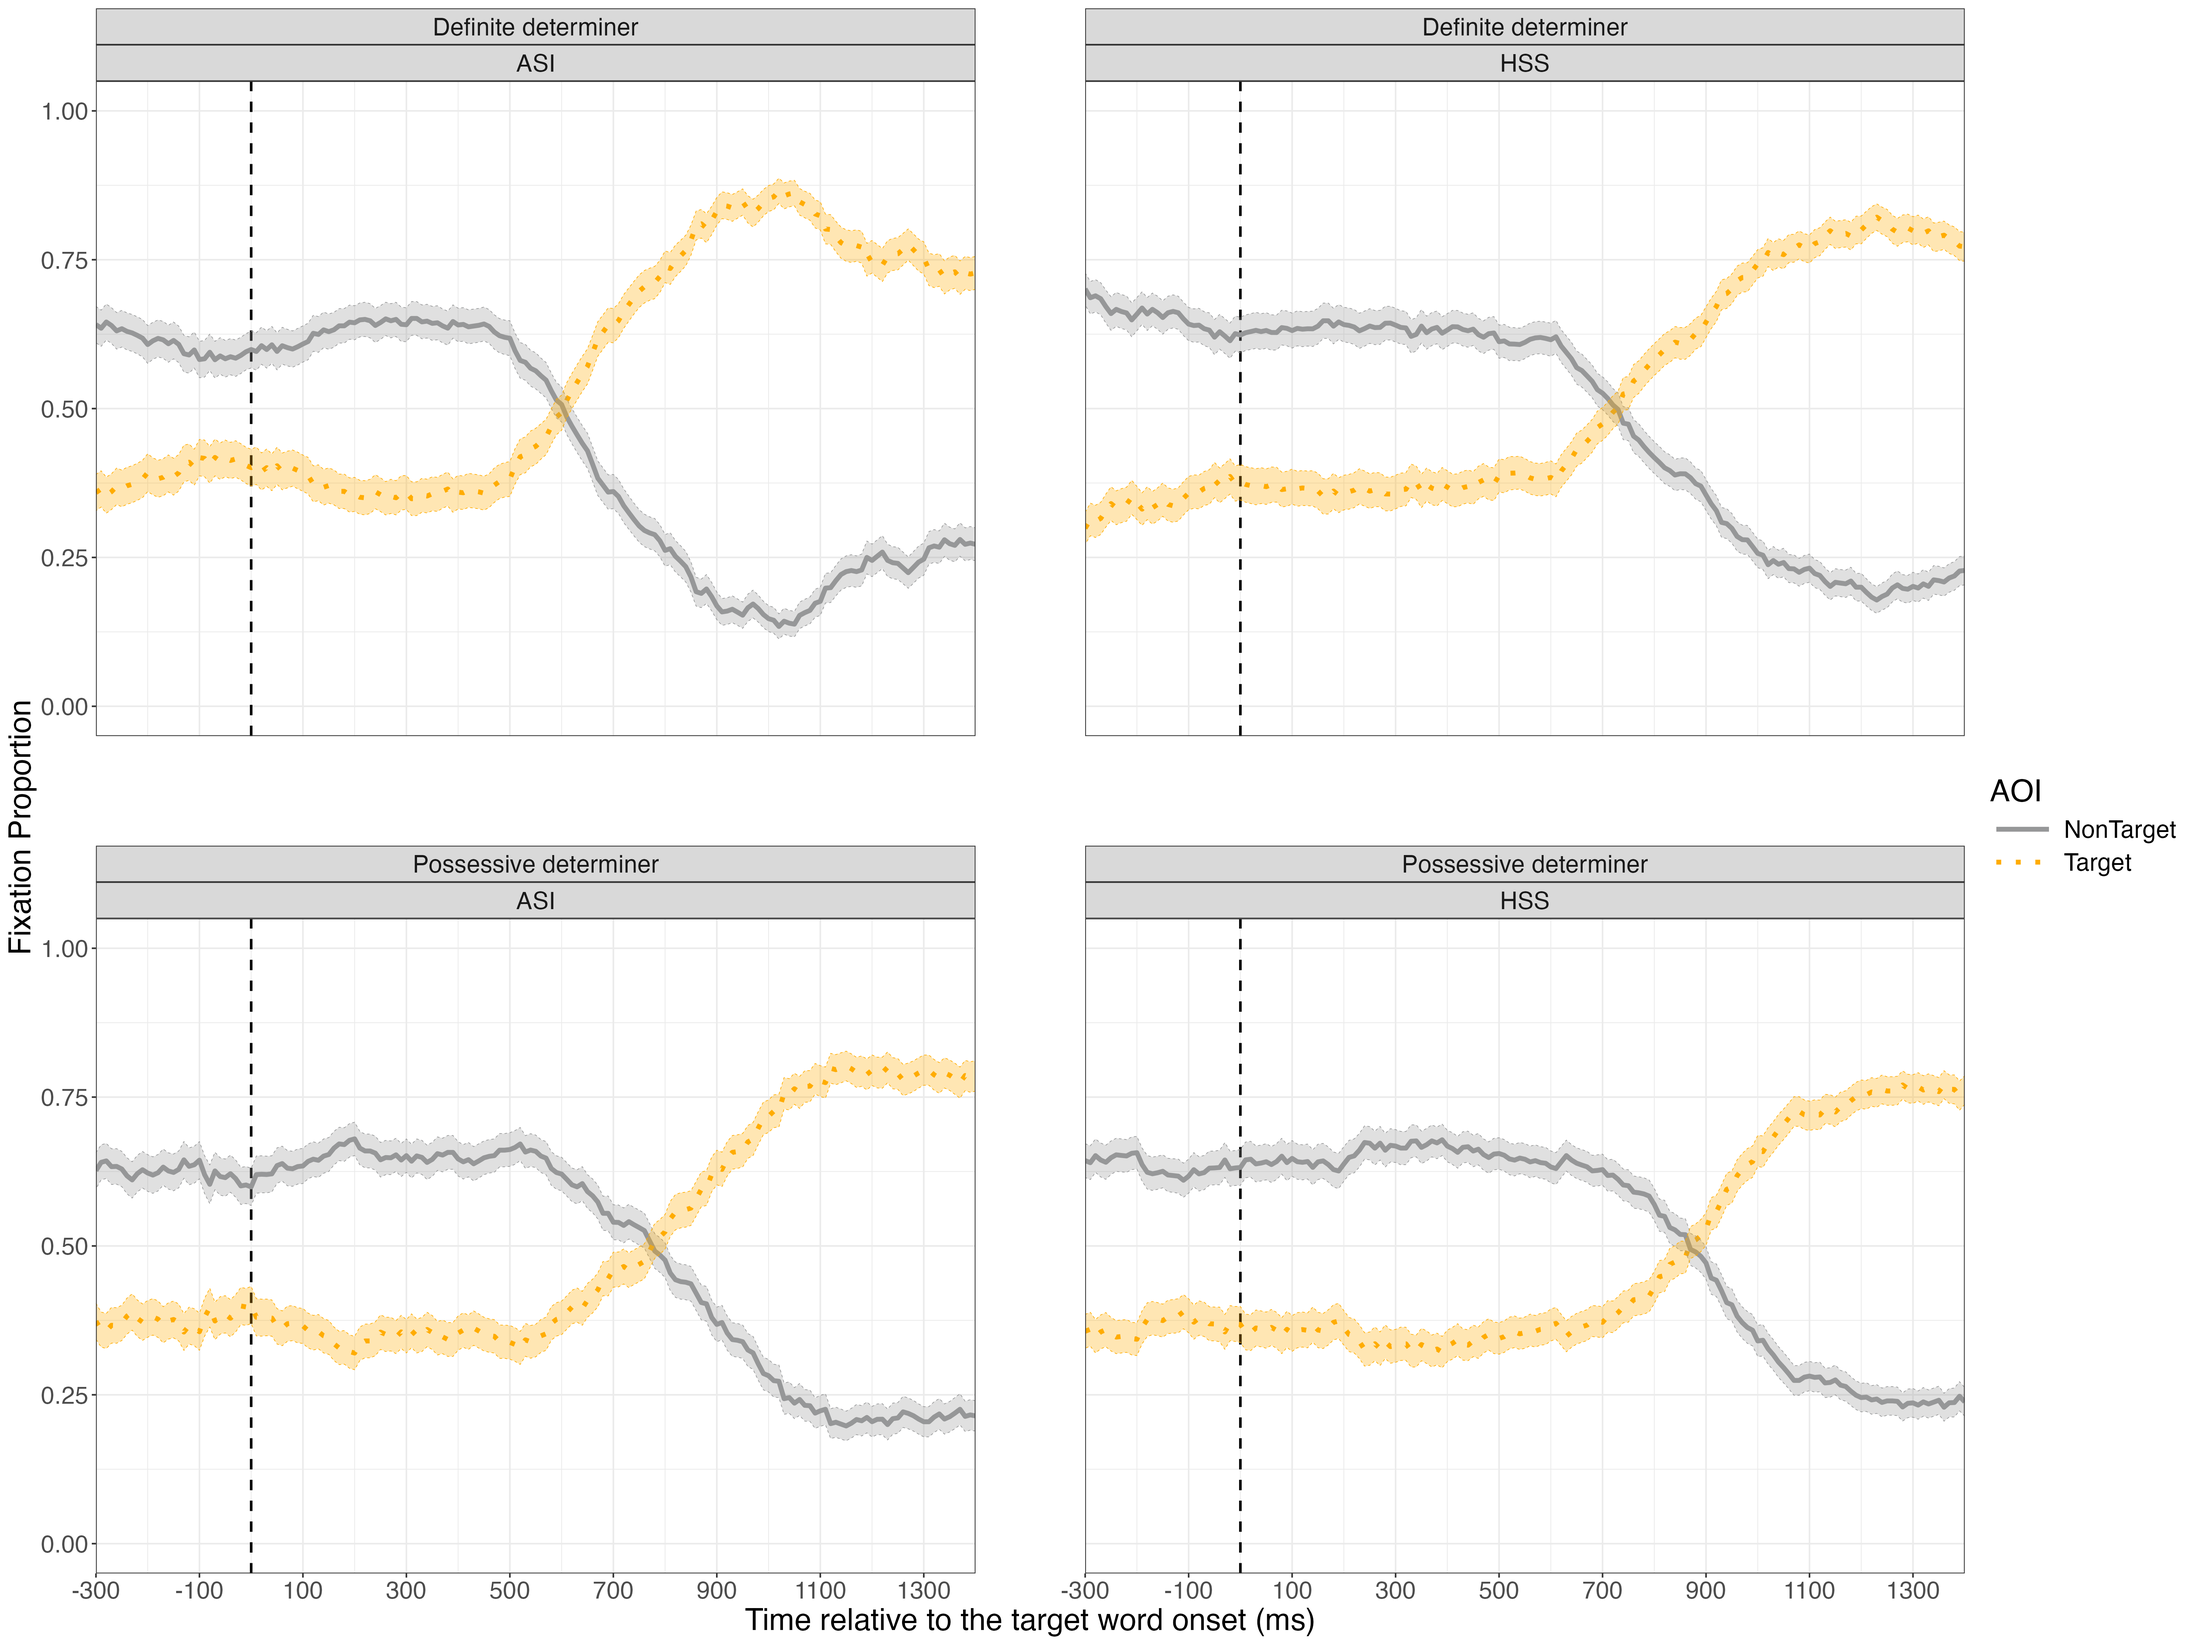
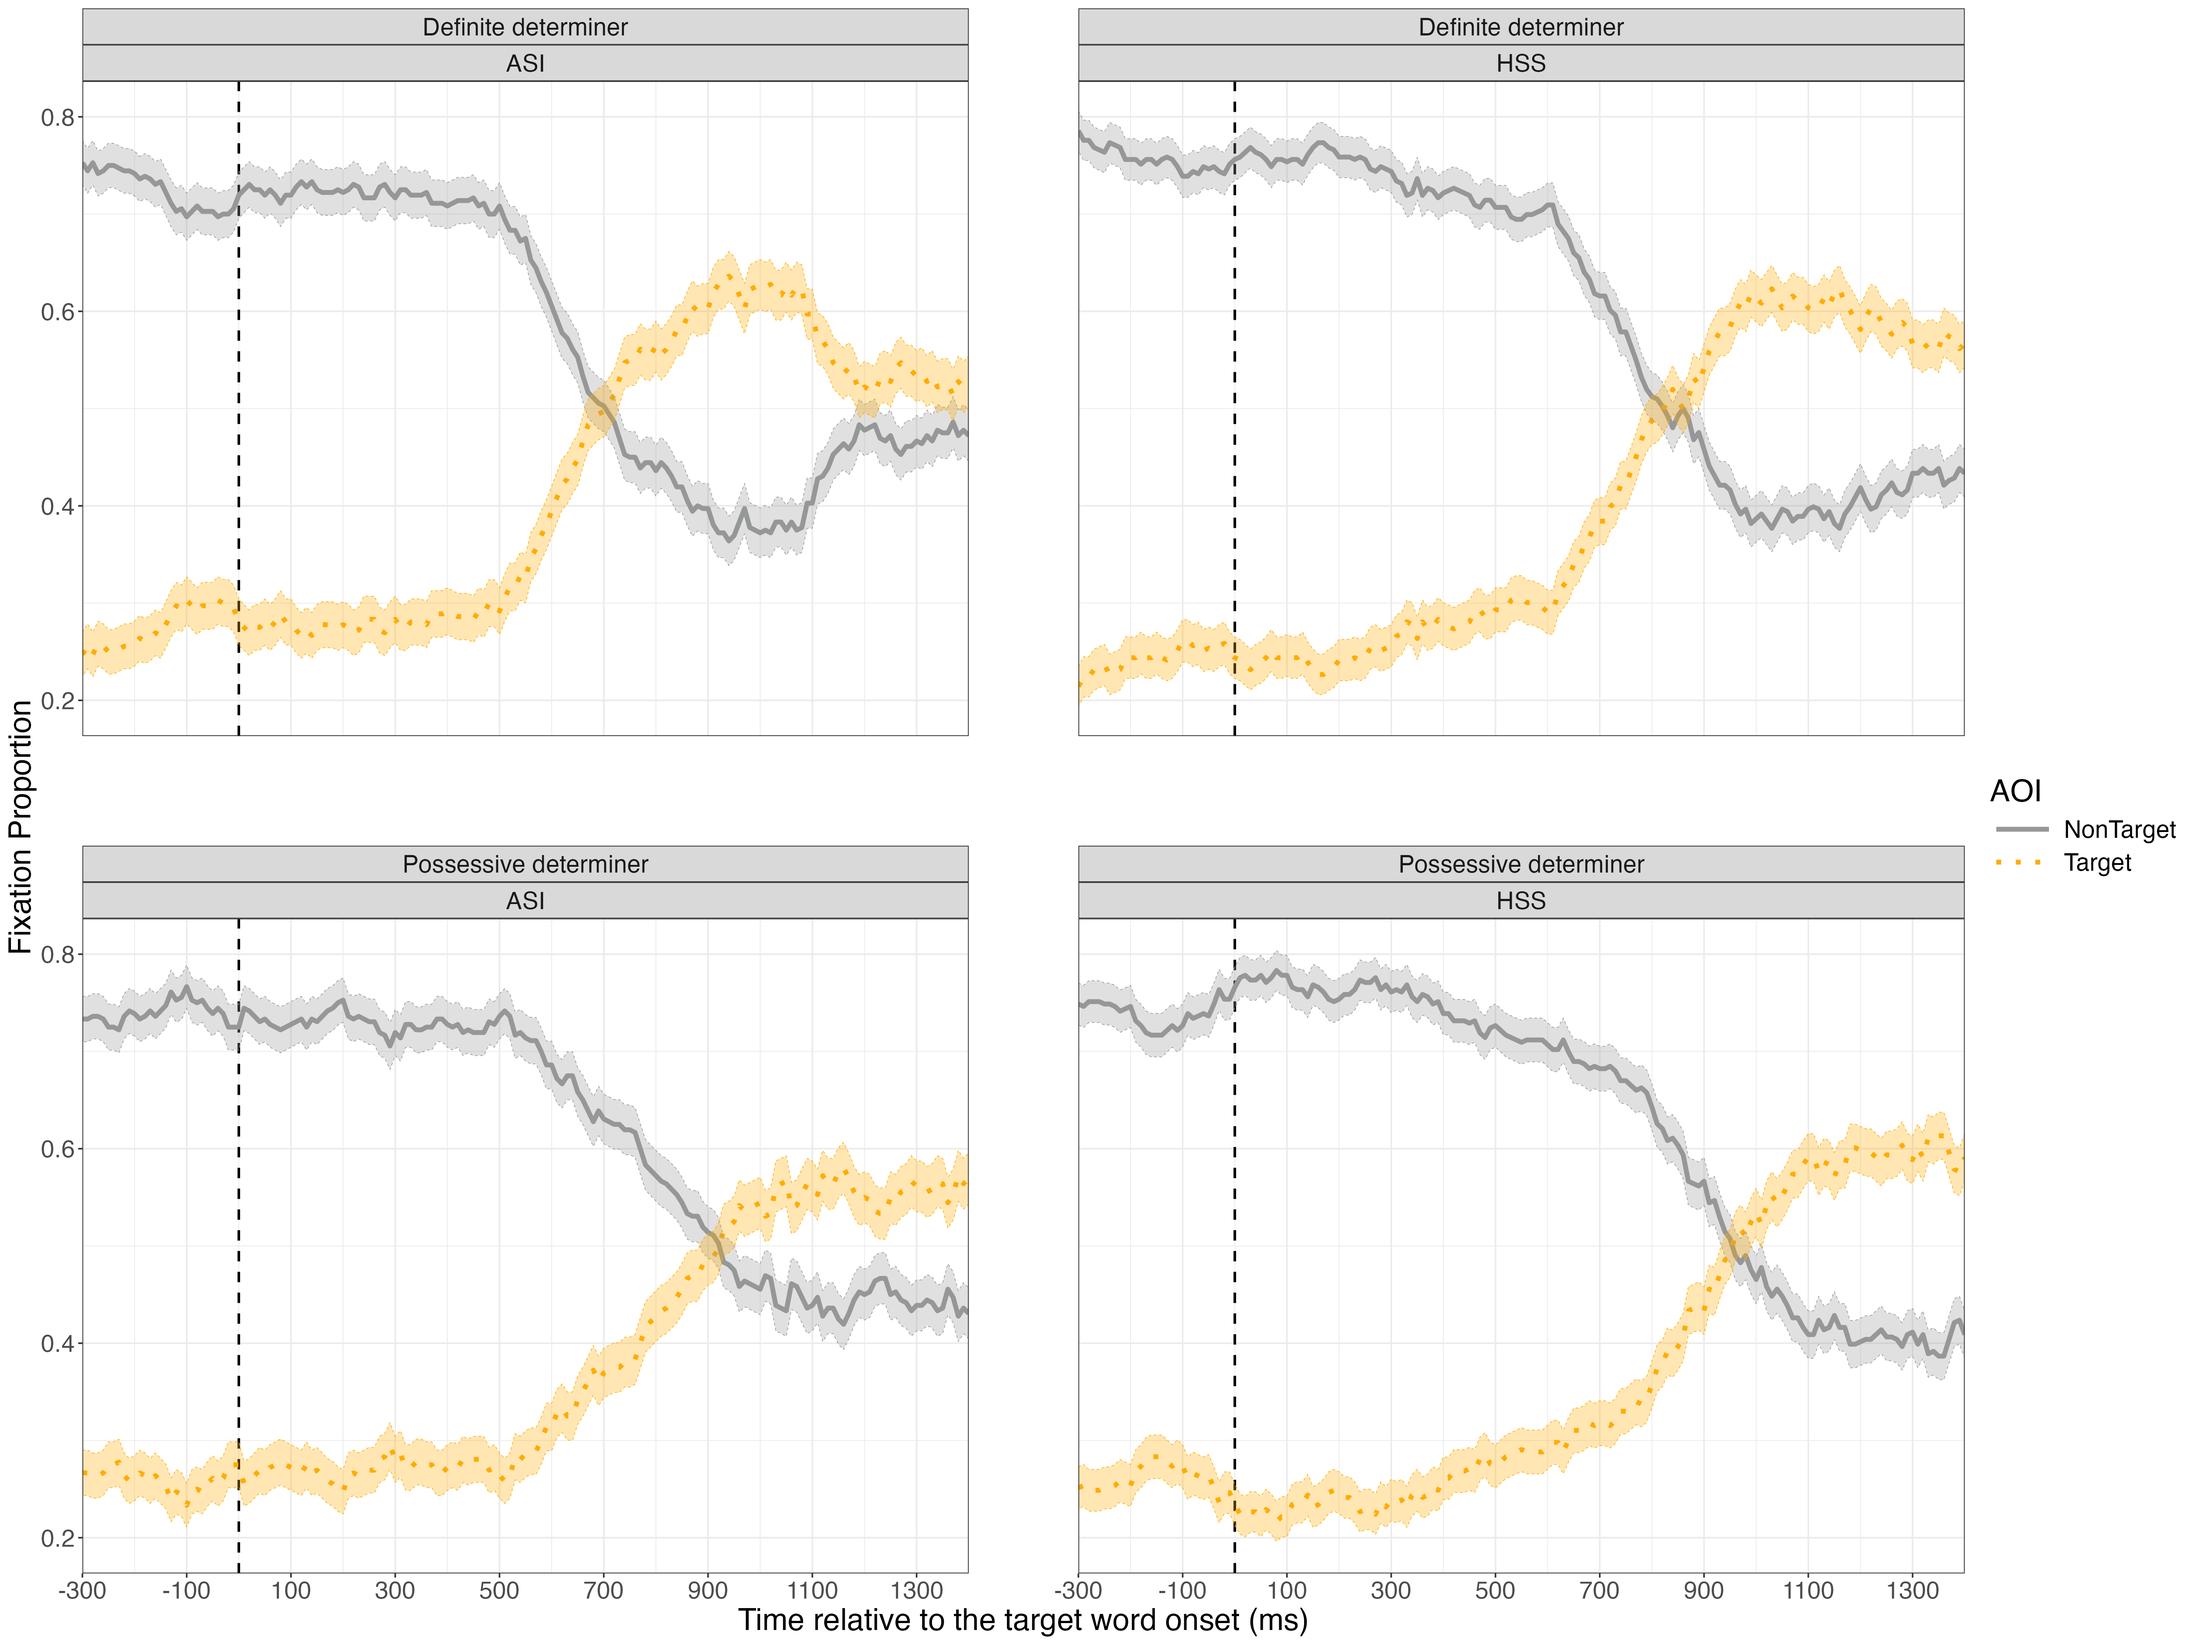
found trackloss proportion for each unique participant-trial

diff --git a/README.md b/README.md
@@ -1,10 +1,10 @@
 # Divergence Point Analysis (DPA) for Eye-Tracking Data
-<div style="display: flex; gap: 100px; justify-content: center;">
-  <img src="images/bilinguals_in_toronto.png" width="300" style="margin-right: 200px;">
-  <img src="images/uoft_logo.png" width="300">
-</div>
-<br>
-<br>
+
+::: {style="display: flex; gap: 100px; justify-content: center;"}
+<img src="images/bilinguals_in_toronto.png" width="300" style="margin-right: 200px;"/> <img src="images/uoft_logo.png" width="300"/>
+:::
+
+<br> <br>
 
 This repository contains an R pipeline for performing **Divergence Point Analysis (DPA)** on visual-world eye-tracking data. The script generates time-course plots of fixation proportions and estimates the time at which looks to the target diverge reliably from looks to non-target objects using bootstrap-based statistical testing.
 
@@ -13,7 +13,6 @@ The analysis is adapted from the methods described in:
 > Ito, A., & Knoeferle, P. (2023). *Analysing data from the psycholinguistic visual-world paradigm: Comparison of different analysis methods.*
 
 The implementation is customized for **high-resolution (10 ms) binomial fixation data** produced by modern eye trackers and for experiments with substantial trial-to-trial variability in stimulus duration.
-
 
 ## Project and team context
 
@@ -37,12 +36,12 @@ Crystal Chen — Statistical consulting and methodological support
 
 The pipeline supports the following analyses:
 
-* Preprocessing and reshaping of raw eye-tracking time-course data
-* Computation of mean fixation proportions with standard error and confidence intervals
-* Generation of publication-quality time-course plots
-* Divergence Point Analysis comparing Target vs. NonTarget fixations
-* Bootstrap estimation of divergence points and confidence intervals
-* Group comparisons of divergence timing using permutation bootstrapping
+-   Preprocessing and reshaping of raw eye-tracking time-course data
+-   Computation of mean fixation proportions with standard error and confidence intervals
+-   Generation of publication-quality time-course plots
+-   Divergence Point Analysis comparing Target vs. NonTarget fixations
+-   Bootstrap estimation of divergence points and confidence intervals
+-   Group comparisons of divergence timing using permutation bootstrapping
 
 The workflow is designed for visual-world experiments with multiple Areas of Interest (AOIs) and linguistic manipulations, but can be adapted to other eye-tracking datasets with similar structure.
 
@@ -50,13 +49,15 @@ The workflow is designed for visual-world experiments with multiple Areas of Int
 
 The analysis assumes a visual-world paradigm with:
 
-* Three AOIs: **Target**, **Competitor**, and **Distractor**
-* Linguistic manipulations such as:
+-   Three AOIs: **Target**, **Competitor**, and **Distractor**
 
-  * Determiner type (Definite vs. Possessive)
-  * Phonological overlap (Minimal Pair vs. Non-Minimal Pair)
-  * Gender match relationships between nouns
-* Participant group comparisons (e.g. Adult Spanish Immigrants vs. Heritage Spanish Speakers)
+-   Linguistic manipulations such as:
+
+    -   Determiner type (Definite vs. Possessive)
+    -   Phonological overlap (Minimal Pair vs. Non-Minimal Pair)
+    -   Gender match relationships between nouns
+
+-   Participant group comparisons (e.g. Adult Spanish Immigrants vs. Heritage Spanish Speakers)
 
 Although originally developed for Spanish gender-processing experiments, the pipeline is not language-specific.
 
@@ -64,12 +65,12 @@ Although originally developed for Spanish gender-processing experiments, the pip
 
 The input dataset is a long-format data frame containing one row per **10 ms time bin per trial per participant**. Key columns include:
 
-* Participant, TOI (trial ID), SpeakerType
-* Bin, Bin_duration, TimeMS
-* Target, Competitor, Distractor (binomial fixation indicators)
-* Linguistic timing variables (ArticleOnset, NounOnset, EndingOnset, EndingOffset)
-* Adjusted timing variables (zeroed at article onset)
-* Experimental condition variables (Determiner, Phonological Overlap, Gender Match)
+-   Participant, TOI (trial ID), SpeakerType
+-   Bin, Bin_duration, TimeMS
+-   Target, Competitor, Distractor (binomial fixation indicators)
+-   Linguistic timing variables (ArticleOnset, NounOnset, EndingOnset, EndingOffset)
+-   Adjusted timing variables (zeroed at article onset)
+-   Experimental condition variables (Determiner, Phonological Overlap, Gender Match)
 
 All bins with trackloss are removed prior to analysis.
 
@@ -79,13 +80,13 @@ Trials in the experiment vary substantially in the duration of the determiner–
 
 To address this, the analysis applies a **temporal normalization (time-warping) procedure**:
 
-1. Fixation data from the eye tracker are sampled in 10 ms bins and encoded binomially (0/1) for each AOI. For each AOI, the fixation time course is treated as a step function over time, where the area under the curve corresponds to fixation proportion.
+1.  Fixation data from the eye tracker are sampled in 10 ms bins and encoded binomially (0/1) for each AOI. For each AOI, the fixation time course is treated as a step function over time, where the area under the curve corresponds to fixation proportion.
 
-2. For each trial, the determiner–noun window is stretched or compressed to fill a fixed number of **pseudo-bins** (e.g. 100). Fixation proportions within each pseudo-bin are computed based on the area of the original step function that falls within that bin.
+2.  For each trial, the determiner–noun window is stretched or compressed to fill a fixed number of **pseudo-bins** (e.g. 100). Fixation proportions within each pseudo-bin are computed based on the area of the original step function that falls within that bin.
 
-3. This transformation yields continuous fixation proportions between 0 and 1 while preserving the **relative temporal structure within each trial**, allowing early vs. late fixation dynamics to be compared across trials of different absolute durations.
+3.  This transformation yields continuous fixation proportions between 0 and 1 while preserving the **relative temporal structure within each trial**, allowing early vs. late fixation dynamics to be compared across trials of different absolute durations.
 
-4. The resulting normalized time series is compatible with proportion-based DPA methods and enables aggregation across all trials.
+4.  The resulting normalized time series is compatible with proportion-based DPA methods and enables aggregation across all trials.
 
 This normalization is purely temporal and structural. No baseline subtraction, z-scoring, or scaling of fixation magnitudes is applied.
 
@@ -93,10 +94,10 @@ This normalization is purely temporal and structural. No baseline subtraction, z
 
 The pipeline computes mean fixation proportions and standard errors across participants for each time bin and condition. Plots can be faceted by:
 
-* Speaker group
-* Determiner type
-* Phonological overlap
-* Gender match condition
+-   Speaker group
+-   Determiner type
+-   Phonological overlap
+-   Gender match condition
 
 Plots are aligned relative to article onset and include reference lines marking critical linguistic events.
 
@@ -104,41 +105,41 @@ Plots are aligned relative to article onset and include reference lines marking 
 
 For divergence analysis:
 
-* Competitor and Distractor fixations are collapsed into a single **NonTarget** category.
-* The analysis compares **Target vs. NonTarget** fixations at each time bin.
-* Divergence is defined as the earliest time point at which a specified number of **consecutive bins** (e.g. 20 bins) show a statistically significant advantage for the Target.
+-   Competitor and Distractor fixations are collapsed into a single **NonTarget** category.
+-   The analysis compares **Target vs. NonTarget** fixations at each time bin.
+-   Divergence is defined as the earliest time point at which a specified number of **consecutive bins** (e.g. 20 bins) show a statistically significant advantage for the Target.
 
 Two modeling approaches are implemented:
 
-* Linear mixed-effects models (`lmer`) with random intercepts for participants
-* Generalized linear models (`glm`, binomial)
+-   Linear mixed-effects models (`lmer`) with random intercepts for participants
+-   Generalized linear models (`glm`, binomial)
 
 Divergence points are estimated using **stratified bootstrap resampling**, preserving the within-participant temporal structure of the data.
 
 Bootstrap outputs include:
 
-* Mean divergence point (in milliseconds)
-* Confidence intervals
-* Separate estimates for each speaker group and determiner condition
+-   Mean divergence point (in milliseconds)
+-   Confidence intervals
+-   Separate estimates for each speaker group and determiner condition
 
 ## Group comparison
 
 To test whether divergence timing differs between groups, the pipeline implements a **permutation bootstrap under the null hypothesis**:
 
-* Group labels are randomly reassigned within participants and time bins.
-* Divergence points are re-estimated on each resample.
-* A p-value is computed as the proportion of null samples exceeding the observed group difference.
+-   Group labels are randomly reassigned within participants and time bins.
+-   Divergence points are re-estimated on each resample.
+-   A p-value is computed as the proportion of null samples exceeding the observed group difference.
 
 ## Dependencies
 
 Key R packages used:
 
-* tidyverse
-* ggplot2
-* Rmisc
-* boot
-* lme4
-* dplyr
+-   tidyverse
+-   ggplot2
+-   Rmisc
+-   boot
+-   lme4
+-   dplyr
 
 Package versions are documented in the script for reproducibility.
 
@@ -146,13 +147,13 @@ Package versions are documented in the script for reproducibility.
 
 The pipeline produces:
 
-* High-resolution fixation time-course plots
-* Annotated plots with divergence points and confidence intervals
-* Bootstrap result objects saved as `.rds` files
+-   High-resolution fixation time-course plots
+-   Annotated plots with divergence points and confidence intervals
+-   Bootstrap result objects saved as `.rds` files
 
 ## Notes and limitations
 
-* Divergence estimates depend on the chosen number of consecutive significant bins.
-* Trial-level DPA is included but may yield unstable estimates due to limited per-trial data.
-* Divergence points are interpretable as **relative positions within the normalized time window**, not absolute acoustic times.
-* Due to the large file size, df_cleaned.csv is NOT on the github repo and must be accessed through a local copy.
+-   Divergence estimates depend on the chosen number of consecutive significant bins.
+-   Trial-level DPA is included but may yield unstable estimates due to limited per-trial data.
+-   Divergence points are interpretable as **relative positions within the normalized time window**, not absolute acoustic times.
+-   Due to the large file size, df_cleaned.csv is NOT on the github repo and must be accessed through a local copy.
